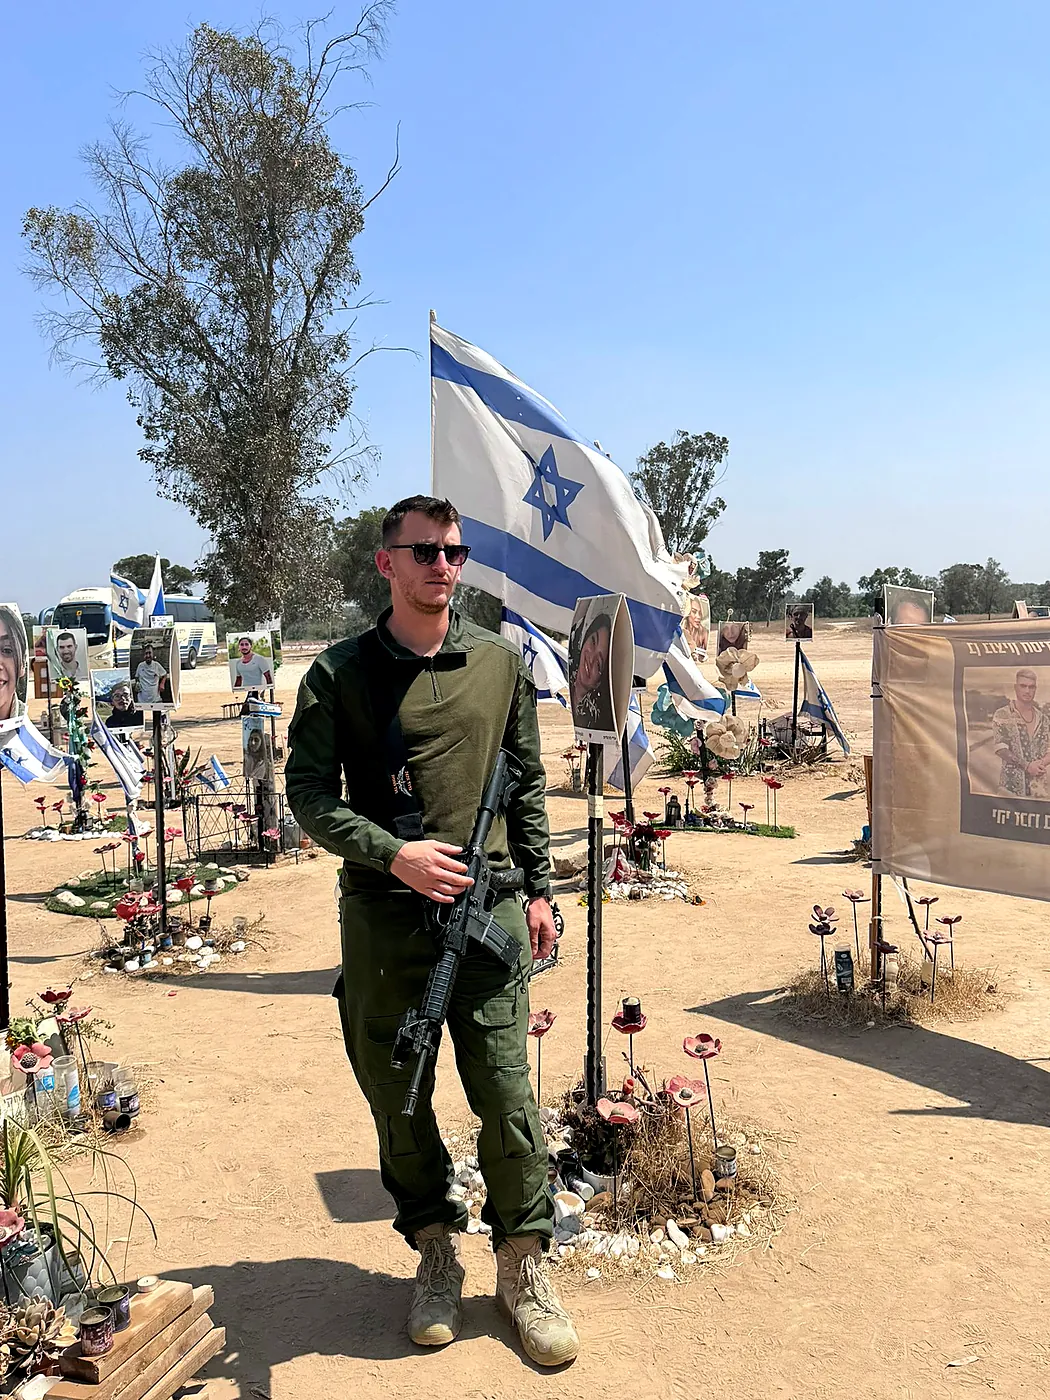
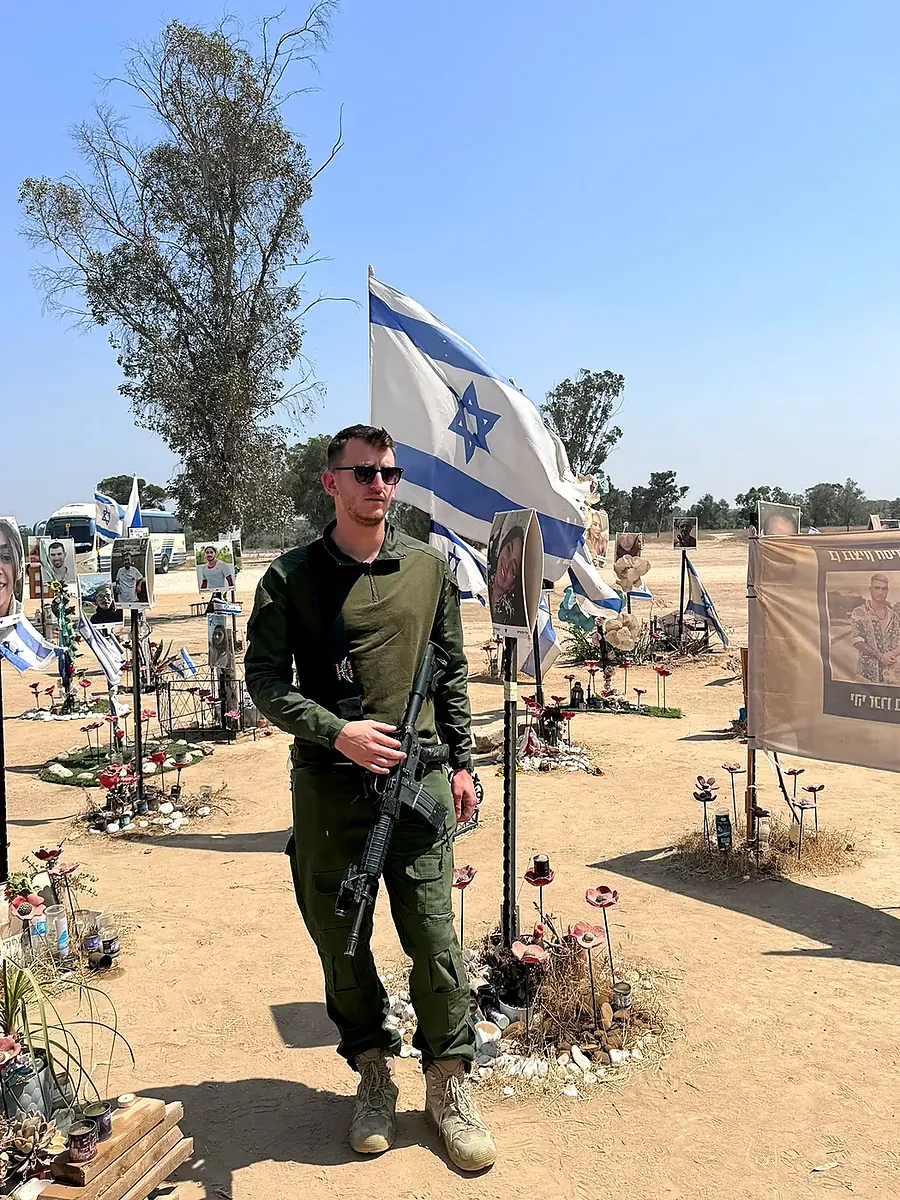
mobile weight: compact screens skip the WebGL panel textures they never show (~1 MB of images, a row of 50-85 ms draw tasks), and the memorial photo drops to 900×1200 (340 → 252 KB)

diff --git a/src/main.js b/src/main.js
@@ -1214,7 +1214,14 @@ function drawImageCover(ctx, img, x, y, w, h) {
   else { sw = img.width; sh = sw / br; sx = 0; sy = (img.height - sh) / 2; }
   ctx.drawImage(img, sx, sy, sw, sh, x, y, w, h);
 }
+// Compact screens (phones, portrait windows) never show the WebGL panels — the stops
+// carry DOM figures there — so their textures are 2-px stand-ins: no image fetch, no
+// 1024-px draw, no upload (2026-09-29; Lighthouse mobile counted ~1 MB of panel images
+// and a row of 50-85 ms draw tasks). A resize across the compact line rebuilds them.
+const panelStandIn = () => { const cv = document.createElement('canvas'); cv.width = cv.height = 2; return cv; };
+let _panelsCompact = isCompact();
 function drawPanelCanvas(b) {
+  if (isCompact() && !editMode) return panelStandIn();
   // Panels are pure artifacts: the screenshot IS the card, full-bleed, no text —
   // the kinetic caption owns every word and the pill button owns the CTA.
   // At 70 world-units these quads fill half the screen; 512 upscaled read soft
@@ -1261,6 +1268,7 @@ function drawAnimCanvas(b, cv, sec) {
   ctx.lineWidth = 4; ctx.strokeStyle = 'rgba(79,210,255,.5)'; ctx.strokeRect(2, 2, cv.width - 4, cv.height - 4);
 }
 function makeAnimCanvas(b) {
+  if (isCompact() && !editMode) return panelStandIn();   // phones animate the DOM figure instead
   const W = 1024, H = Math.round(W * (b.panel.size[1] / b.panel.size[0]));
   const cv = document.createElement('canvas'); cv.width = W; cv.height = H;
   drawAnimCanvas(b, cv, PREFERS_REDUCED ? 11 : 0);   // reduced motion: one still frame, the answer on screen
@@ -2339,6 +2347,7 @@ function applyResize(full) {
   camera.aspect = window.innerWidth / window.innerHeight;
   camera.updateProjectionMatrix();
   if ((isPortrait() && !editMode) !== _derivedPortrait) rebuildDerived();   // rotate → swap desktop/portrait poses
+  if (isCompact() !== _panelsCompact) { _panelsCompact = isCompact(); if (panelsBuilt) rebuildPanels(); }   // crossed the compact line: real textures or stand-ins
   if (full) {
     // pixel ratio BEFORE setSize — the ratio only reaches the drawing buffer on
     // the next setSize, and the composer keeps its own copy that must match

diff --git a/CLAUDE.md b/CLAUDE.md
@@ -304,6 +304,9 @@ export tuned `BEATS` and paste into `DEFAULT_BEATS`.
 ### Perf tiers (all in `main.js`, top)
 - `IS_TOUCH` — DPR cap 1.25, nebula res 0.33 / fewer steps, halved star/node/link
   density, no water sim / bokeh, no CSS blur tweens.
+- Compact screens (`isCompact()`: portrait or < 520 px tall) get 2-px stand-in
+  panel textures — no panel image fetch, draw or upload, since those screens only
+  show the DOM figures; crossing the compact line on resize rebuilds them.
 - `LOW_END` (touch + ≤4GB or ≤480px) — also skips the whole CSS3D layer.
 - **Adaptive governor** (touch only, one-way): fps EMA < 45 → tier 1 (smaller
   raymarch) → tier 2 (DPR 1, nebula every 3rd frame, bloom at 1/3 res).
